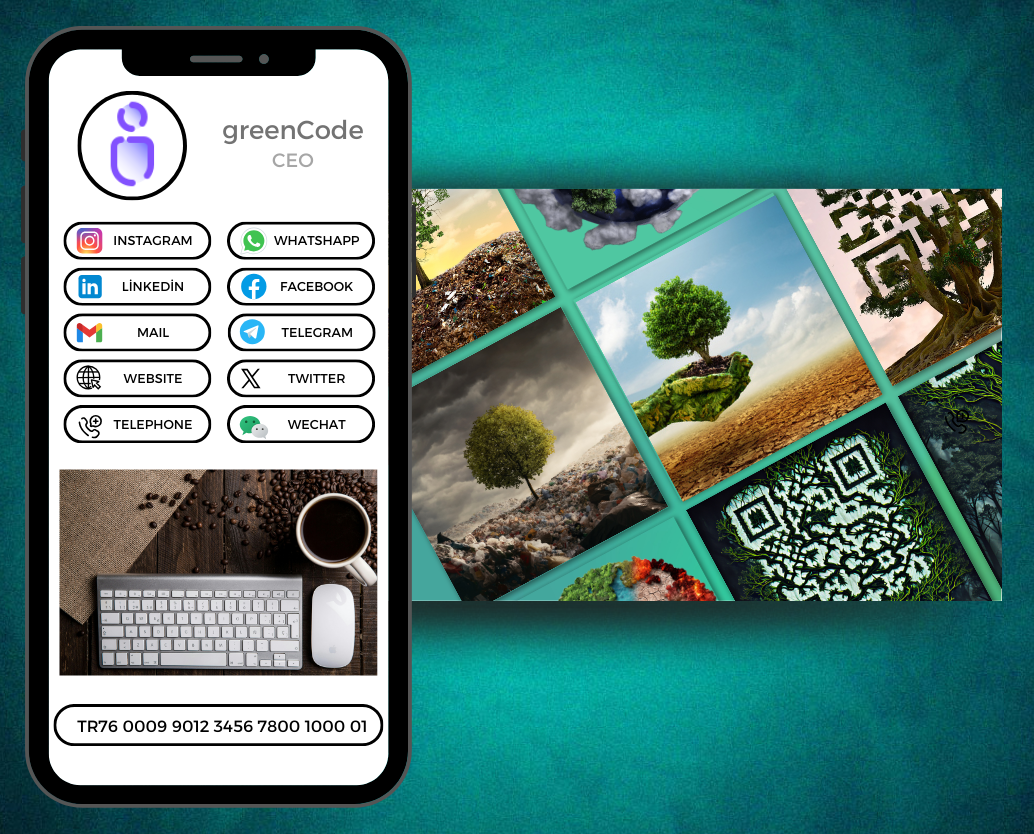
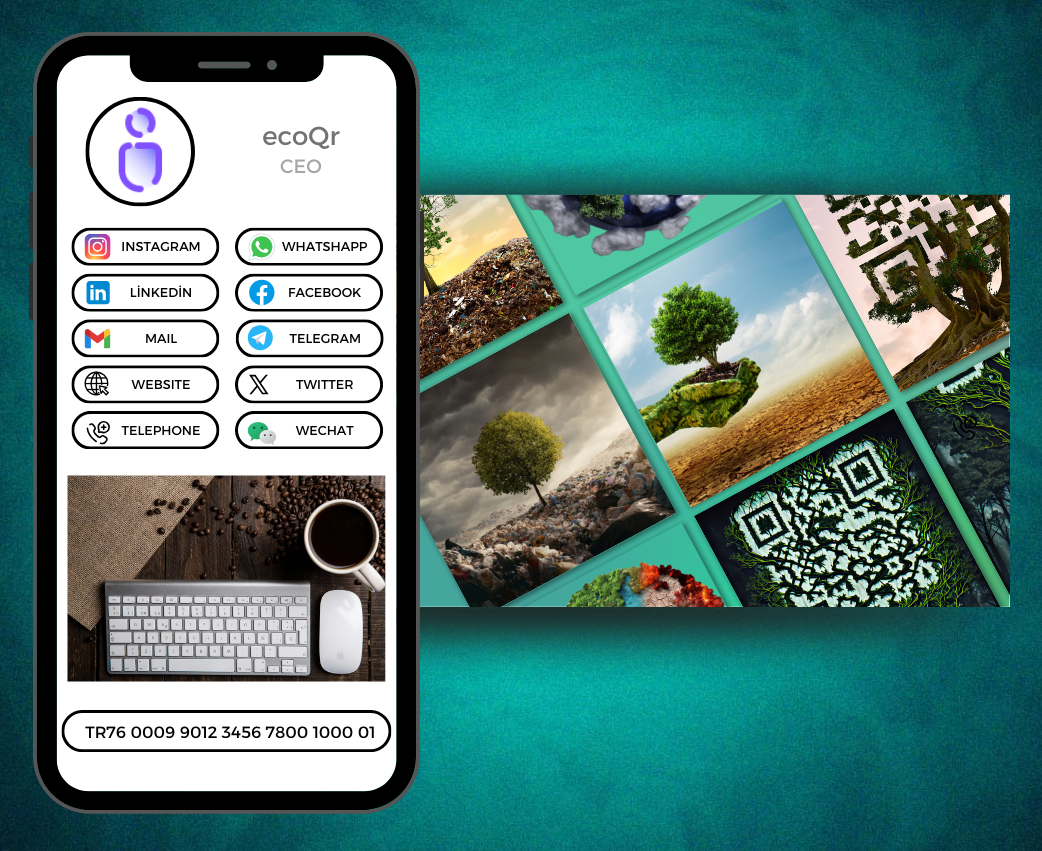
project updated

Changed region(s): [[0.0, 0.0312, 0.9903, 0.9664]]

diff --git a/src/pages/Dashboard.jsx b/src/pages/Dashboard.jsx
@@ -2,7 +2,7 @@ import React, { useState } from "react";
 import { Link, Outlet } from "react-router-dom";
 
 function Dashboard() {
-  const [open, setOpen] = useState(true);
+  const [open, setOpen] = useState(false);
 
   return (
     <div className="flex">
@@ -18,7 +18,7 @@ function Dashboard() {
        border-2 rounded-full  ${!open && "rotate-180"}`}
           onClick={() => setOpen(!open)}
         />
-        <div className="flex gap-x-4 items-center">
+        <div className="flex gap-x-4 w-12 md:w-auto pr-2 md:pr-0 items-center">
           <Link to="/">
             <img
               src="/logo/logo.png"
@@ -29,7 +29,7 @@ function Dashboard() {
           </Link>
         </div>
         <ul className="pt-10 space-y-4">
-          <li className="flex  rounded-md p-2 cursor-pointer hover:bg-light-white text-gray-300 text-sm items-center gap-x-4 ">
+          <li className="flex  rounded-md p-2 cursor-pointer hover:bg-light-white text-gray-300 text-base items-center gap-x-4 ">
             <Link to="/">
               {" "}
               <img src={"/dashboard/Chart_fill.png"} />
@@ -37,33 +37,33 @@ function Dashboard() {
             <span
               className={`${
                 !open && "hidden"
-              } origin-left duration-200 font-medium text-lg`}
+              } origin-left duration-200 font-medium md:text-lg`}
             >
               <Link to="/">Anasayfa</Link>
             </span>
           </li>
-          <li className="flex  rounded-md p-2 cursor-pointer hover:bg-light-white text-gray-300 text-sm items-center gap-x-4 ">
-            <Link to="digital-business-card-update">
+          <li className="flex  rounded-md p-2 cursor-pointer hover:bg-light-white text-gray-300 text-base items-center gap-x-4 ">
+            <Link to="digital-business-card-update" className="w-10 md:w-auto" >
               <img src={"/dashboard/User.png"} />
             </Link>
             <span
               className={`${
                 !open && "hidden"
-              } origin-left duration-200 font-medium text-lg`}
+              } origin-left duration-200 font-medium md:text-lg`}
             >
               <Link to="digital-business-card-update">
                 Kartvizit güncelleme
               </Link>
             </span>
           </li>
-          <li className="flex  rounded-md p-2 cursor-pointer hover:bg-light-white text-gray-300 text-sm items-center gap-x-4 ">
+          <li className="flex  rounded-md p-2 cursor-pointer hover:bg-light-white text-gray-300 text-base items-center gap-x-4 ">
             <Link to="setting">
               <img src={"/dashboard/Setting.png"} />
             </Link>
             <span
               className={`${
                 !open && "hidden"
-              } origin-left duration-200 font-medium text-lg`}
+              } origin-left duration-200 font-medium md:text-lg`}
             >
               <Link to="setting">Ayarlar</Link>
             </span>

diff --git a/src/components/Digitalcard/DigitalCard.jsx b/src/components/Digitalcard/DigitalCard.jsx
@@ -6,33 +6,33 @@ import digital3 from "/businessCardDesc/digital3.png";
 
 function DigitalCard() {
   return (
-    <div className="px-2 flex items-center mt-10 gap-5">
+    <div className="px-2 md:flex md:flex-row items-center mt-10 gap-5">
       <div className="rounded basis-1/2">
         <img src={digitalCard} className="w-[680px] rounded-2xl" />
       </div>
-      <div className="basis-1/2 space-y-14">
+      <div className="w-full md:basis-1/2 space-y-8 md:space-y-14 mt-10 md:mt-0">
         <div>
-          <div className="flex items-center justify-center gap-3">
-            <img src={digital2} className="w-24" />
-            <p className="font-medium">
+          <div className="flex items-center justify-center gap-1 md:gap-3 pl-2 md:pl-0">
+            <img src={digital2} className="w-20 md:w-24" />
+            <p className="font-medium text-sm md:text-base">
               1. Lütfen bilgilerinizi eksiksiz doldurun ve ödemeyi
               gerçekleştirin
             </p>
           </div>
         </div>
         <div>
-          <div className="flex items-center justify-center pl-2 gap-3">
-            <img src={digital1} className="w-28" />
-            <p className="font-medium">
+          <div className="flex items-center justify-center md:pl-2  gap-1 md:gap-3">
+            <img src={digital1} className="w-24 md:w-28" />
+            <p className="font-medium text-sm md:text-base">
               2. Girilen bilgiler ve seçilen tema ile oluşturulan QR kodu e-posta
               hesabınıza gönderilecektir
             </p>
           </div>
         </div>
         <div>
-          <div className="flex mt-6 items-center justify-center pl-5 gap-3">
-            <img src={digital3} className="w-24" />
-            <p className="font-medium">
+          <div className="flex mt-6 items-center justify-center pl-3 md:pl-5 gap-1 md:gap-3">
+            <img src={digital3} className="w-20 md:w-24" />
+            <p className="font-medium text-sm md:text-base">
               3. Güncellemeler için kaydolun ve panelden bilgilerinizi
               güncelleyin
             </p>

diff --git a/src/pages/Login.jsx b/src/pages/Login.jsx
@@ -8,7 +8,7 @@ import { useNavigate } from "react-router-dom";
 
 function Login() {
   const navigate = useNavigate();
-  // State'lerin tanımlanması
+
   const [formData, setFormData] = useState({
     email: "",
     password: "",
@@ -16,18 +16,15 @@ function Login() {
 
   const [error, setError] = useState(null);
 
-  // Input değerlerinin değişimlerini takip eden fonksiyon
   const handleInputChange = (e) => {
     const { name, value } = e.target;
     setFormData({ ...formData, [name]: value });
   };
 
-  // Form submit işlemi
   const handleSubmit = async (e) => {
     e.preventDefault();
 
     try {
-      // Axios ile API'ye POST isteği gönderme
       const response = await axios.post(
         "http://178.128.207.116:8089/api/auth/login",
         {
@@ -36,33 +33,25 @@ function Login() {
         }
       );
       console.log("response", response);
-      // Giriş başarılıysa JWT token'i alınır
       const token = response.data.token;
 
-      // JWT token'i decode edilir
       const decodedToken = jwtDecode(token);
       console.log("decodedToken", decodedToken);
 
       localStorage.setItem("token", token);
       localStorage.setItem("email", decodedToken.sub);
 
-      // Decode edilen token kullanıcı bilgilerini içerir
       console.log("Decoded Token:", decodedToken);
 
-      // Decode edilen token bilgileri ile kullanıcı tarafından girilen bilgileri karşılaştırma
       if (decodedToken.sub === formData.email) {
-        // Giriş bilgileri doğruysa giriş yapılır
         console.log("Giriş başarılı");
-        // Başarılı mesajı gösterebilirsiniz
         navigate("/");
         setError(null);
       } else {
-        // Giriş bilgileri yanlışsa hata mesajı gösterilir
         setError("Kullanıcı adı veya şifre yanlış");
       }
     } catch (error) {
       console.error("Error:", error);
-      // Hata mesajını gösterebilirsiniz
       setError("Kullanıcı adı veya şifre yanlış");
     }
   };

diff --git a/src/components/Services/Services.jsx b/src/components/Services/Services.jsx
@@ -11,7 +11,7 @@ function Services() {
           Etkileyici bağlantı deneyimi
         </h4>
         <p className="text-sm md:text-base font-medium text-zinc-500">
-          greenCode dijital kartvizit, iletişim bilgilerinizi, sosyal medya
+          ecoQr dijital kartvizit, iletişim bilgilerinizi, sosyal medya
           bilgilerinizi ve çok daha fazlasını bir uygulamaya ihtiyaç duymadan
           herhangi bir akıllı telefona temassız hızlı bir şekilde aktarmanıza
           olanak tanır.
@@ -23,8 +23,8 @@ function Services() {
           Daha güçlü bir imaj
         </h4>
         <p className="text-sm md:text-base font-medium text-zinc-500">
-          greenCode kartvizit ile iletişim bilgilerinizi akılda kalıcı bir
-          şekilde paylaşır ve güçlü bir ilk izlenim bırakırsınız. greenCode
+          ecoQr kartvizit ile iletişim bilgilerinizi akılda kalıcı bir
+          şekilde paylaşır ve güçlü bir ilk izlenim bırakırsınız. ecoQr
           kartvizit insanlar için ilgi çekici ve unutulmaz bir deneyim sunar.
         </p>
       </div>

diff --git a/src/components/GreenTecno/GreenTecno.jsx b/src/components/GreenTecno/GreenTecno.jsx
@@ -4,12 +4,12 @@ function GreenTecno() {
     <div className="w-full md:w-4/5 md:mx-auto flex px-2 md:px-0 flex-col justify-between items-center gap-10 mt-10 md:mt-20">
       <div className=" md:text-center">
         <h2 className="text-lg md:text-4xl font-medium md:font-semibold text-zinc-600 ">
-          <span className="text-green-400">greenCode</span> ile kağıtsız çalışın
+          <span className="text-green-400">ecoQr</span> ile kağıtsız çalışın
         </h2>
 
         <p className="text-sm md:text-xl font-medium md:font-semibold md:tracking-wide text-zinc-500 mt-2 md:mt-4">
           Artık eski kağıt kartvizitlere veda etmenin, çevre üzerindeki
-          etkilerinizi azaltmanın zamanı. Çevre dostu greenCode kartvizit ile
+          etkilerinizi azaltmanın zamanı. Çevre dostu ecoQr kartvizit ile
           farkınızı ortaya koyarak markanıza sürdürülebilir yeşil değer katar.
         </p>
       </div>

diff --git a/src/pages/DashboardPages/CardUpdate.jsx b/src/pages/DashboardPages/CardUpdate.jsx
@@ -547,7 +547,7 @@ function CardUpdate() {
         </header>
         <span className="flex font-medium mb-2">Theme 1</span>
         <div className="grid grid-cols-2 gap-2.5 w-full">
-          <div className="flex mb-5 flex-col items-center pr-48 justify-center mx-auto">
+          <div className="flex mb-5 flex-col items-center md:pr-80 justify-center mx-auto">
             <label>
               <input
                 type="radio"
@@ -578,7 +578,7 @@ function CardUpdate() {
         </div>
         <span className="font-medium mb-4">Theme 2</span>
         <div className="grid grid-cols-2 gap-2.5 mt-2">
-          <div className="flex mb-5 flex-col items-center pr-48">
+          <div className="flex mb-5 flex-col items-center md:pr-80">
             <label>
               <input
                 type="radio"

diff --git a/src/components/Hero/Hero.jsx b/src/components/Hero/Hero.jsx
@@ -7,14 +7,14 @@ function Hero() {
       </div>
       {/* Hero Section */}
       <div className="heroSection sm:w-full  md:w-6/12 h-full flex flex-col items-center justify-start">
-        <h1 className="text-4xl md:text-7xl title text-center mt-28">
+        <h1 className="text-4xl md:text-7xl title text-center mt-36 md:mt-28">
           P A Y L A Ş M A K
           <br />
           B A Ğ L A M A K
           <br />B Ü Y Ü M E K
         </h1>
         <h3 className="sub-title text-green-400 relative bottom-6 z-10 text-3xl md:text-4xl text-center">
-          En güvenilir dijital markalama platformu greenCode ile dijital
+          En güvenilir dijital markalama platformu ecoQr ile dijital
           kartvizitler olusturun, özellestirin ve paylasın
         </h3>
       </div>

diff --git a/src/components/Pricing/Pricing.jsx b/src/components/Pricing/Pricing.jsx
@@ -3,7 +3,7 @@ function Pricing() {
     <main className="max-w-6xl mx-auto px-2 md:px-8 mt-10 md:mt-20 mb-10 md:mb-20">
       <div className="max-w-md mx-auto mb-7 md:mb-14 text-center">
         <h1 className="text-lg md:text-4xl font-semibold mb-1 md:mb-6 lg:text-5xl">
-          <span className="text-green-400">greenCode</span> Ödeme Planları
+          <span className="text-green-400">ecoQr</span> Ödeme Planları
         </h1>
         <p className="text-sm md:text-xl text-gray-500 font-medium">
           Siz veya ekibiniz için en uygun planı seçin

diff --git a/src/components/Footer/Footer.jsx b/src/components/Footer/Footer.jsx
@@ -10,8 +10,8 @@ function Footer() {
             to="/"
             className="flex items-center mb-4 sm:mb-0 space-x-3 rtl:space-x-reverse"
           >
-            <span className="self-center text-2xl font-bold whitespace-nowrap text-zinc-500">
-              greenCode
+            <span className="self-center text-2xl font-bold whitespace-nowrap text-green-500">
+              ecoQr
             </span>
           </Link>
           <ul className="flex flex-wrap items-center mb-6 text-sm font-medium text-gray-500 sm:mb-0 dark:text-gray-400">

diff --git a/src/components/Navbar/Navbar.jsx b/src/components/Navbar/Navbar.jsx
@@ -18,7 +18,7 @@ const Header = () => {
       <nav className="flex justify-between items-center  z-50 w-[92%] mx-auto">
         <div className="text-green-300 text-4xl font-bold flex gap-2">
           <img src={logo} className="w-14 rounded-lg" />
-          <Link to="/">greenCode</Link>
+          <Link to="/">ecoQr</Link>
         </div>
         <div
           className={`nav-links duration-500  md:static absolute bg-white md:min-h-fit min-h-full left-0 ${

diff --git a/index.html b/index.html
@@ -19,7 +19,7 @@
       href="https://fonts.googleapis.com/css2?family=Dancing+Script:wght@400..700&family=Edu+VIC+WA+NT+Beginner:wght@400..700&display=swap"
       rel="stylesheet"
     />
-    <title>greenCode</title>
+    <title>ecoQr</title>
   </head>
   <body>
     <div id="root"></div>
